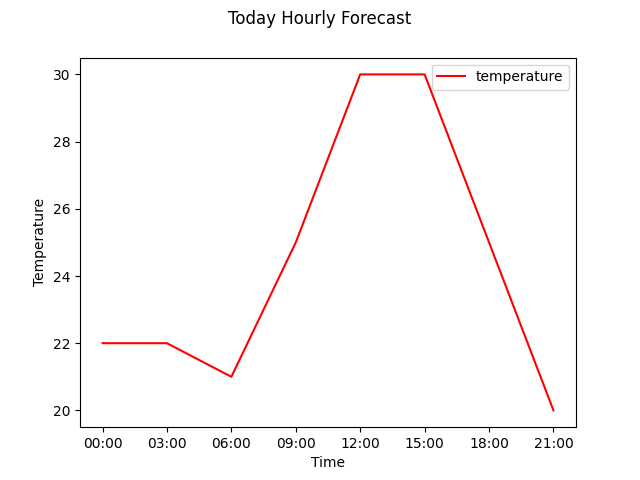
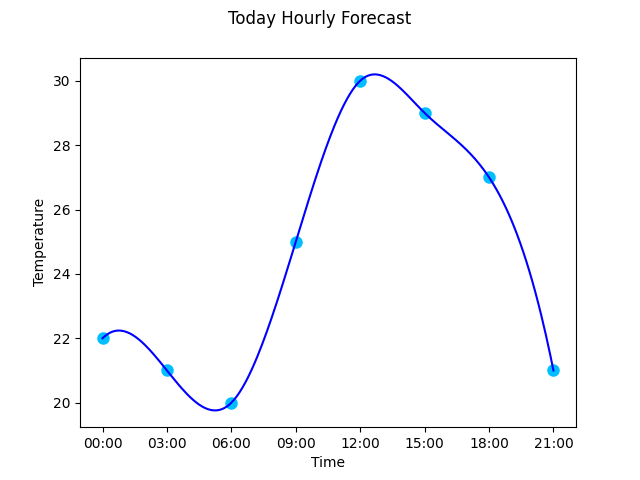
Update forecast line charts.
Add smooth line charts with vertices.

diff --git a/handlers/client.py b/handlers/client.py
@@ -2,6 +2,8 @@ from aiogram import types, Dispatcher
 from aiogram.dispatcher import FSMContext
 from aiogram.dispatcher.filters.state import State, StatesGroup
 
+from .others import data_forecast
+
 from Buttons import markups
 
 from create_bot import client
@@ -159,14 +161,7 @@ async def hourly_forecasts_today(call: types.CallbackQuery, state: FSMContext):
     async with state.proxy() as data:
         city = data['city']
         weather = await client.get(city)
-        forecast_data = {'time': [], 'temperature': [], 'description': [], 'kind': []}
-        for n, forecast in enumerate(weather.forecasts):
-            if n == 0:
-                for hourly in forecast.hourly:
-                    forecast_data['time'].append(hourly.time.strftime("%H:%M"))
-                    forecast_data['temperature'].append(hourly.temperature)
-                    forecast_data['description'].append(hourly.description)
-                    forecast_data['kind'].append(hourly.kind)
+        forecast_data = data_forecast(weather, 0)
 
         image_converter = ImageConverter(forecast_data['time'], forecast_data['temperature'],
                                          forecast_data['description'], forecast_data['kind'])
@@ -181,14 +176,7 @@ async def hourly_forecasts_tomorrow(call: types.CallbackQuery, state: FSMContext
     async with state.proxy() as data:
         city = data['city']
         weather = await client.get(city)
-        forecast_data = {'time': [], 'temperature': [], 'description': [], 'kind': []}
-        for n, forecast in enumerate(weather.forecasts):
-            if n == 1:
-                for hourly in forecast.hourly:
-                    forecast_data['time'].append(hourly.time.strftime("%H:%M"))
-                    forecast_data['temperature'].append(hourly.temperature)
-                    forecast_data['description'].append(hourly.description)
-                    forecast_data['kind'].append(hourly.kind)
+        forecast_data = data_forecast(weather, 1)
 
         image_converter = ImageConverter(forecast_data['time'], forecast_data['temperature'],
                                          forecast_data['description'], forecast_data['kind'])
@@ -202,14 +190,7 @@ async def hourly_forecasts_day_after_tomorrow(call: types.CallbackQuery, state: 
     async with state.proxy() as data:
         city = data['city']
         weather = await client.get(city)
-        forecast_data = {'time': [], 'temperature': [], 'description': [], 'kind': []}
-        for n, forecast in enumerate(weather.forecasts):
-            if n == 2:
-                for hourly in forecast.hourly:
-                    forecast_data['time'].append(hourly.time.strftime("%H:%M"))
-                    forecast_data['temperature'].append(hourly.temperature)
-                    forecast_data['description'].append(hourly.description)
-                    forecast_data['kind'].append(hourly.kind)
+        forecast_data = data_forecast(weather, 2)
 
         image_converter = ImageConverter(forecast_data['time'], forecast_data['temperature'],
                                          forecast_data['description'], forecast_data['kind'])

diff --git a/image_converter.py b/image_converter.py
@@ -1,5 +1,7 @@
 import matplotlib.pyplot as plt
 import pandas as pd
+import numpy as np
+from scipy.interpolate import make_interp_spline
 
 
 class ImageConverter:
@@ -9,31 +11,64 @@ class ImageConverter:
         self.description = description
         self.kind = kind
 
-        data = {
+        self.data = {
             'time': self.time,
             'temperature': self.temperature,
             'description': self.description,
             'kind': self.kind
         }
-        self.df = pd.DataFrame(data, index=data['time'])
+        self.df = pd.DataFrame(self.data, index=self.data['time'])
 
     def today_forecast(self):
-        self.df[['temperature']].plot(kind="line", legend=True, color=['#FF0000'])
+
         plt.xlabel('Time')  # X axis
         plt.ylabel('Temperature')  # Y axis
         plt.suptitle("Today Hourly Forecast")  # create title
+
+        idx = range(len(self.data['time']))
+        xnew = np.linspace(min(idx), max(idx), 300)
+
+        spl = make_interp_spline(idx, self.data['temperature'], k=3)
+        smooth = spl(xnew)
+
+        plt.plot(self.data['time'], self.data['temperature'], 'o', color='#00BFFF', markersize=8)
+        plt.plot(xnew, smooth, color='blue', linestyle='solid')
+        plt.xticks(idx, self.data['time'])
         plt.savefig('Forecasts/Today_forecast.png')
+        plt.clf()
 
     def tomorrow_forecast(self):
-        self.df[['temperature']].plot(kind="line", legend=True, color=['#FF0000'])
+
         plt.xlabel('Time')  # X axis
         plt.ylabel('Temperature')  # Y axis
         plt.suptitle("Tomorrow Hourly Forecast")  # create title
+
+        idx = range(len(self.data['time']))
+        xnew = np.linspace(min(idx), max(idx), 300)
+
+        spl = make_interp_spline(idx, self.data['temperature'], k=3)
+        smooth = spl(xnew)
+
+        plt.plot(self.data['time'], self.data['temperature'], 'o', color='#00BFFF', markersize=8)
+        plt.plot(xnew, smooth, color='blue', linestyle='solid')
+        plt.xticks(idx, self.data['time'])
         plt.savefig('Forecasts/Tomorrow_forecast.png')
+        plt.clf()
 
     def day_after_tomorrow_forecast(self):
-        self.df[['temperature']].plot(kind="line", legend=True, color=['#FF0000'])
+
         plt.xlabel('Time')  # X axis
         plt.ylabel('Temperature')  # Y axis
         plt.suptitle("Day After Tomorrow Hourly Forecast")  # create title
+
+        idx = range(len(self.data['time']))
+        xnew = np.linspace(min(idx), max(idx), 300)
+
+        spl = make_interp_spline(idx, self.data['temperature'], k=3)
+        smooth = spl(xnew)
+
+        plt.plot(self.data['time'], self.data['temperature'], 'o', color='#00BFFF', markersize=8)
+        plt.plot(xnew, smooth, color='blue', linestyle='solid')
+        plt.xticks(idx, self.data['time'])
         plt.savefig('Forecasts/Day_After_Tomorrow_forecast.png')
+        plt.clf()

diff --git a/handlers/others.py b/handlers/others.py
@@ -1,0 +1,14 @@
+import python_weather
+
+
+def data_forecast(weather: python_weather.Client.get, day: int):
+    forecast_data = {'time': [], 'temperature': [], 'description': [], 'kind': []}
+    for n, forecast in enumerate(weather.forecasts):
+        if n == day:
+            for hourly in forecast.hourly:
+                forecast_data['time'].append(hourly.time.strftime("%H:%M"))
+                forecast_data['temperature'].append(hourly.temperature)
+                forecast_data['description'].append(hourly.description)
+                forecast_data['kind'].append(hourly.kind)
+
+    return forecast_data

diff --git a/create_bot.py b/create_bot.py
@@ -1,10 +1,12 @@
 from aiogram import Bot
 from aiogram.dispatcher import Dispatcher
-from setings import TOKEN
-import python_weather
 from aiogram.contrib.fsm_storage.memory import MemoryStorage
+
+import python_weather
+
 from date import Date
 
+from setings import TOKEN
 
 bot = Bot(token=TOKEN)
 
